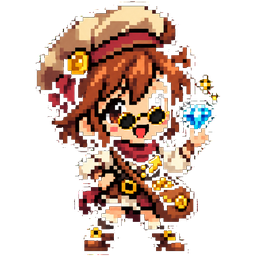
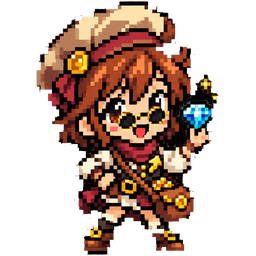
Fix the mascot cut (no flood-fill leaks) and give the equity chart real axes
- The transparent cut leaked through thin dark lines into the sunglasses and hair, leaving holes on light
  backgrounds. Background is now only thick, border-connected black (erode, flood, grow), so the figure is
  solid and renders on any theme without an added outline.
- Equity chart: samples placed by time (sampling slows after the close), hourly ticks on 1d / daily on 1w /
  Mondays beyond, price gridlines with labels, start line, fills the card height and redraws on resize.

Claude-Session: https://claude.ai/code/session_019hmLLiC5K9rj46DGTXpF18

diff --git a/munchkin/ui/app.js b/munchkin/ui/app.js
@@ -57,6 +57,29 @@ function lineChart(vals, w, h, color, base) {
   const d = vals.map((v, i) => (i ? 'L' : 'M') + X(i) + ' ' + Y(v)).join(' ');
   return `<svg viewBox="0 0 ${w} ${h}" preserveAspectRatio="none" style="width:100%;height:${h}px;display:block"><path d="${d} L${w} ${h} L0 ${h}Z" fill="${color}" fill-opacity=".10"/>${base != null ? `<line x1="0" x2="${w}" y1="${Y(base)}" y2="${Y(base)}" stroke="${css('--base')}" />` : ''}<path d="${d}" fill="none" stroke="${color}" stroke-width="2" stroke-linejoin="round" vector-effect="non-scaling-stroke"/><circle cx="${X(vals.length-1)}" cy="${Y(vals[vals.length-1])}" r="5" fill="${color}" stroke="${css('--surf')}" stroke-width="2"/></svg>`;
 }
+function equityChart(points, w, h, base, range) {
+  if (!points.length) return '<div class="dim">no samples yet</div>';
+  const vals = points.map(p => p.equity); const padL = 8, padR = 56, padT = 10, padB = 22; const W = w - padL - padR, H = h - padT - padB;
+  let lo = Math.min(...vals, base ?? Infinity), hi = Math.max(...vals, base ?? -Infinity); const span = Math.max(hi - lo, 0.5); lo -= span * 0.08; hi += span * 0.08;
+  // x by actual time (sampling slows after the close), falling back to sample index if timestamps are missing
+  const times = points.map(p => Date.parse((p.ts || '').replace(' ', 'T'))); const timed = times.every(t => !isNaN(t)) && times[times.length - 1] > times[0];
+  const t0 = timed ? times[0] : 0, t1 = timed ? times[times.length - 1] : Math.max(1, vals.length - 1);
+  const X = i => (padL + ((timed ? times[i] : i) - t0) * W / (t1 - t0)).toFixed(1), Y = v => (padT + H - (v - lo) * H / (hi - lo)).toFixed(1);
+  const d = vals.map((v, i) => (i ? 'L' : 'M') + X(i) + ' ' + Y(v)).join(' '); const col = css('--series'), grid = css('--grid'), dim = css('--dim');
+  let out = '';
+  // price gridlines: 4 nice steps
+  const rawStep = (hi - lo) / 4, mag = Math.pow(10, Math.floor(Math.log10(rawStep))), step = [1, 2, 2.5, 5, 10].map(m => m * mag).find(s => s >= rawStep) || rawStep;
+  for (let v = Math.ceil(lo / step) * step; v <= hi; v += step) out += `<line x1="${padL}" x2="${padL + W}" y1="${Y(v)}" y2="${Y(v)}" stroke="${grid}"/><text x="${padL + W + 6}" y="${+Y(v) + 3.5}" font-size="10" fill="${dim}" style="font-family:var(--mono)">$${v.toFixed(step < 1 ? 2 : 0)}</text>`;
+  // time ticks: hourly for 1d, per day for 1w, weekly beyond. points carry ts (ISO, ET)
+  const ticks = []; let lastKey = null;
+  points.forEach((p, i) => { const ts = p.ts || ''; const key = range === '1d' ? ts.slice(0, 13) : range === '1w' ? ts.slice(0, 10) : ts.slice(0, 10); if (key !== lastKey) { lastKey = key; if (range === '1d') ticks.push([i, ts.slice(11, 13) + ':00']); else if (range === '1w') ticks.push([i, ts.slice(5, 10)]); else if (new Date(ts).getDay() === 1) ticks.push([i, ts.slice(5, 10)]); } });
+  const maxTicks = Math.max(3, Math.floor(W / 70)); let keep = ticks.length > maxTicks ? ticks.filter((_, k) => k % Math.ceil(ticks.length / maxTicks) === 0) : ticks;
+  let lastX = -1e9; keep = keep.filter(([i]) => { const x = +X(i); if (x - lastX < 46) return false; lastX = x; return true; });
+  keep.forEach(([i, lab]) => { if (range === '1d' && i === 0) lab = (points[0].ts || '').slice(11, 16); out += `<line x1="${X(i)}" x2="${X(i)}" y1="${padT}" y2="${padT + H}" stroke="${grid}" stroke-dasharray="2 3"/><text x="${X(i)}" y="${h - 6}" text-anchor="middle" font-size="10" fill="${dim}" style="font-family:var(--mono)">${esc(lab)}</text>`; });
+  if (base != null) out += `<line x1="${padL}" x2="${padL + W}" y1="${Y(base)}" y2="${Y(base)}" stroke="${css('--base')}" stroke-dasharray="4 3"/><text x="${padL + 4}" y="${+Y(base) - 4}" font-size="10" fill="${dim}">start $${base}</text>`;
+  out += `<path d="${d} L${X(vals.length - 1)} ${padT + H} L${padL} ${padT + H}Z" fill="${col}" fill-opacity=".10"/><path d="${d}" fill="none" stroke="${col}" stroke-width="2" stroke-linejoin="round"/><circle cx="${X(vals.length - 1)}" cy="${Y(vals[vals.length - 1])}" r="5" fill="${col}" stroke="${css('--surf')}" stroke-width="2"/>`;
+  return `<svg viewBox="0 0 ${w} ${h}" style="width:100%;height:100%;display:block">${out}</svg>`;
+}
 function sparkLevels(vals, w, h, levels, entryI, entryPx) {
   if (!vals.length) return '';
   let lo = Math.min(...vals), hi = Math.max(...vals); for (const l of levels) { lo = Math.min(lo, l.px); hi = Math.max(hi, l.px); } lo -= 0.2; hi += 0.2;
@@ -139,7 +162,7 @@ async function overview(v) {
   const [o, eq, sess, w] = await Promise.all([j('/api/overview'), j('/api/equity?range=' + (state.range || '1d')), j('/api/sessions?limit=1'), j('/api/world').catch(() => ({}))]);
   state.style = o.style; state.daemon = o.daemon; state.halted = o.halted; renderNav('overview'); const r = o.risk;
   const running = sess[0] && !sess[0].ended_at ? sess[0] : null;
-  const tot = r.virtual_equity - o.starting_capital; const eqSvg = lineChart(eq.points.map(p => p.equity), 880, 150, css('--series'), o.starting_capital);
+  const tot = r.virtual_equity - o.starting_capital; const eqSvg = `<div id="eqchart" style="flex:1;min-height:200px"></div>`;
   const sparks = await Promise.all(o.positions.map(p => j('/api/spark/' + encodeURIComponent(p.raw)).catch(() => null)));
   const posHtml = o.positions.length ? o.positions.map((p, i) => { const sp = sparks[i]; const lv = []; if (p.stop) lv.push({ label: 'stop ' + p.stop, px: p.stop, c: css('--dn') }); const a = o.armed.find(x => x.symbol === p.raw); if (a) lv.push({ label: 'arm ' + a.trigger_price, px: a.trigger_price, c: css('--gold') });
     return `<div class="row" style="display:grid;grid-template-columns:1.1fr 1fr;gap:18px;align-items:center;cursor:pointer" onclick="location.hash='#/positions/${esc(p.raw)}'"><div style="display:flex;flex-direction:column;gap:6px"><div style="display:flex;align-items:center;gap:10px;flex-wrap:wrap"><span class="sym">${esc(p.symbol)}</span>${pill(p.raw.length > 6 ? 'option' : 'stock')}${p.grade ? pill(p.grade, p.grade === 'confirmed' ? 'up' : 'gold', p.grade === 'confirmed' ? 'check' : null) : ''}${p.resting_stop === 'NONE' ? pill('no resting stop', 'dn') : pill('stop resting', '', 'shield')}</div><div class="mono muted" style="font-size:12px">${p.qty} @ ${p.avg_entry} · last ${p.last} · <span class="${cls(p.pnl)}">${money(p.pnl)} ${pct(p.pnl_pct)}</span></div><div class="muted" style="font-size:12px">${esc((p.thesis || '').slice(0, 170))}</div><div class="muted" style="font-size:11px;display:flex;gap:14px"><span>stop <span class="mono dn">${p.stop ?? '–'}</span></span><span>target <span class="mono up">${p.target ?? '–'}</span></span></div></div>${sp && sp.closes && sp.closes.length ? sparkLevels(sp.closes, 300, 90, lv, null, null) : ''}</div>`; }).join('') : '<div class="dim">flat</div>';
@@ -147,12 +170,14 @@ async function overview(v) {
     return `<div class="row" style="display:grid;grid-template-columns:90px 1fr 150px;gap:12px;align-items:center;cursor:pointer" onclick="location.hash='#/positions/${esc(a.symbol)}'"><div style="display:flex;align-items:center;gap:8px">${icon(a.direction === 'above' ? 'up' : 'down', 14, expr === 'stock' ? css('--series') : css('--gold'))}<span class="sym sm">${esc(a.symbol)}</span></div><div><div class="mono" style="font-size:12px">${a.direction} ${a.trigger_price} · $${a.notional} <span class="muted">· ${esc(expr.replace('_', ' '))}</span></div><div class="muted" style="font-size:11px">${a.not_before ? 'not before ' + dhm(a.not_before) + ' · ' : ''}${a.spy_min_chg_pct != null ? 'SPY ≥ ' + a.spy_min_chg_pct + '% · ' : ''}${esc(a.catalyst_grade)}</div></div>${dist != null ? `<div style="display:flex;align-items:center;gap:8px"><div class="bar" style="width:90px"><i style="width:${Math.min(100, Math.abs(dist) / 3 * 100)}%"></i></div><span class="mono muted" style="font-size:11px">${Math.abs(dist).toFixed(1)}% away</span></div>` : '<span class="dim" style="font-size:11px">no quote</span>'}</div>`; }).join('') : '<div class="dim">none armed</div>';
   const ls = o.last_session;
   v.innerHTML = topbar('Overview', `${o.now.slice(0, 16)} ET · ${r.market_open ? 'market open' : 'market closed'}`) +
-    `<div class="grid g21">${card('Equity', `<div style="display:flex;flex-direction:column;gap:8px"><div style="display:flex;align-items:baseline;gap:14px;flex-wrap:wrap"><span class="hero">${money(r.virtual_equity)}</span><span class="mono ${cls(tot)}" style="font-size:13px">${tot >= 0 ? '▲' : '▼'} ${money(Math.abs(tot))} all-time</span><span class="mono ${cls(r.daily_pnl)}" style="font-size:13px">${r.daily_pnl >= 0 ? '▲' : '▼'} ${money(Math.abs(r.daily_pnl))} today</span><span class="muted" style="font-size:12px">buying power <span class="mono" style="color:var(--fg)">${money(r.buying_power_now)}</span> settled</span></div>${eqSvg}<div style="display:flex;justify-content:space-between;align-items:center"><span class="mono dim" style="font-size:11px">${eq.points.length ? esc(eq.points[0].t) + ' — ' + esc(eq.points[eq.points.length-1].t) + ' · ' + eq.points.length + ' samples' : ''}</span><span class="seg">${['1d', '1w', '1m', '3m'].map(x => `<button class="${(state.range || '1d') === x ? 'on' : ''}" onclick="state.range='${x}';route()">${x}</button>`).join('')}</span></div></div>`, 'since ' + (eq.points[0] ? esc(eq.points[0].ts.slice(0, 10)) : ''))}
+    `<div class="grid g21">${card('Equity', `<div style="display:flex;flex-direction:column;gap:8px;flex:1"><div style="display:flex;align-items:baseline;gap:14px;flex-wrap:wrap"><span class="hero">${money(r.virtual_equity)}</span><span class="mono ${cls(tot)}" style="font-size:13px">${tot >= 0 ? '▲' : '▼'} ${money(Math.abs(tot))} all-time</span><span class="mono ${cls(r.daily_pnl)}" style="font-size:13px">${r.daily_pnl >= 0 ? '▲' : '▼'} ${money(Math.abs(r.daily_pnl))} today</span><span class="muted" style="font-size:12px">buying power <span class="mono" style="color:var(--fg)">${money(r.buying_power_now)}</span> settled</span></div>${eqSvg}<div style="display:flex;justify-content:space-between;align-items:center"><span class="mono dim" style="font-size:11px">${eq.points.length ? esc(eq.points[0].t) + ' — ' + esc(eq.points[eq.points.length-1].t) + ' · ' + eq.points.length + ' samples' : ''}</span><span class="seg">${['1d', '1w', '1m', '3m'].map(x => `<button class="${(state.range || '1d') === x ? 'on' : ''}" onclick="state.range='${x}';route()">${x}</button>`).join('')}</span></div></div>`, 'since ' + (eq.points[0] ? esc(eq.points[0].ts.slice(0, 10)) : ''))}
     ${card('State of the world', o.regime ? worldMini(o.regime, w) : '<div class="dim">screener not built yet</div>', 'breadth · sectors · VIX')}</div>
     <div class="grid g12">${card('Positions', posHtml, `${r.positions_count} of ${o.max_positions}`)}${card('Armed entries', armedHtml, 'watcher executes within a minute of the trigger')}</div>
     ${card('Agent', ls ? `<div style="display:flex;justify-content:space-between;align-items:center;flex-wrap:wrap;gap:8px"><div style="display:flex;align-items:center;gap:10px;flex-wrap:wrap"><a href="#/sessions/${ls.id}" class="disp" style="font-size:16px;color:var(--fg);text-decoration:none">Session #${ls.id}</a>${pill(ls.phase)}<span class="muted" style="font-size:12px">${esc((ls.actions || '').replace(/[*#]/g, '').slice(0, 140))}</span></div>${legend()}</div>${ribbon(ls.nodes, 1190, false)}` : '<div class="dim">no sessions yet</div>', `${o.cadence.continuous ? 'continuous' : 'every ' + o.cadence.interval_min + ' min'} · ${o.sessions_today} sessions today${running ? ' · <span class="gold">running #' + running.id + '</span>' : ''}`)}
     <div class="grid g11">${card('Risk', `<div class="mono muted" style="font-size:12px;display:flex;flex-direction:column;gap:4px"><div>per-position cap <span style="color:var(--fg)">${money(r.max_position_notional)}</span> · options budget <span style="color:var(--fg)">${money(r.max_new_options_premium)}</span></div><div>unsettled <span style="color:var(--fg)">${money(r.unsettled_proceeds)}</span> until next session · day trades ${r.day_trades_used_5d}</div><div>loss breaker ${r.daily_loss_breached ? '<span class="dn">TRIPPED</span>' : '<span class="up">ok</span>'} · ${r.restrictions.length ? '<span class="gold">' + esc(r.restrictions.join('; ')) + '</span>' : 'no restrictions'}</div><div>realized today <span class="${cls(o.realized_today)}">${money(o.realized_today)}</span> · all-time <span class="${cls(o.realized_total)}">${money(o.realized_total)}</span></div></div>`, pill(o.style, 'st-' + o.style))}
     ${card('Activity', o.events.length ? o.events.slice(0, 8).map(e => `<div style="display:flex;gap:10px;align-items:baseline;font-size:12px"><span class="mono dim" style="font-size:11px;min-width:36px">${hm(e.ts)}</span>${pill(e.kind, e.kind === 'event' ? 'acc' : e.kind === 'error' ? 'dn' : e.kind === 'action' ? 'gold' : '')}<span class="muted">${esc(e.text.slice(0, 120))}</span></div>`).join('') : '<div class="dim">nothing yet</div>', o.tasks_open + ' open tasks')}</div>`;
+  const drawEq = () => { const el = $('#eqchart'); if (!el) return; const W = Math.max(320, el.clientWidth), H = Math.max(200, el.clientHeight); el.innerHTML = equityChart(eq.points, W, H, o.starting_capital, state.range || '1d'); };
+  requestAnimationFrame(drawEq); state._eqResize && removeEventListener('resize', state._eqResize); state._eqResize = drawEq; addEventListener('resize', drawEq);
   if (o.last_session_end && !running) { const eta = new Date(o.last_session_end).getTime() + o.cadence.min_gap_s * 1000 - Date.now(); const el = $('#next-session'); if (el) el.textContent = eta > 0 ? `next session in ${Math.floor(eta / 60000)}:${String(Math.floor(eta % 60000 / 1000)).padStart(2, '0')}` : (r.market_open ? 'next session due' : 'off hours · ' + state.daemon); }
 }
 async function positions(v) {

diff --git a/munchkin/ui/styles.css b/munchkin/ui/styles.css
@@ -65,3 +65,4 @@ svg text{font-family:var(--mono)}
 .tr .box{min-width:0;overflow-wrap:anywhere}.tr .box .h>span{min-width:0}.tr .box .h .t{overflow-wrap:anywhere}
 @media (max-width:900px){.tr{grid-template-columns:36px 14px minmax(0,1fr)}.tr .ts{font-size:10px}}
 .seg button{white-space:nowrap}
+.grid>.card{display:flex;flex-direction:column}
